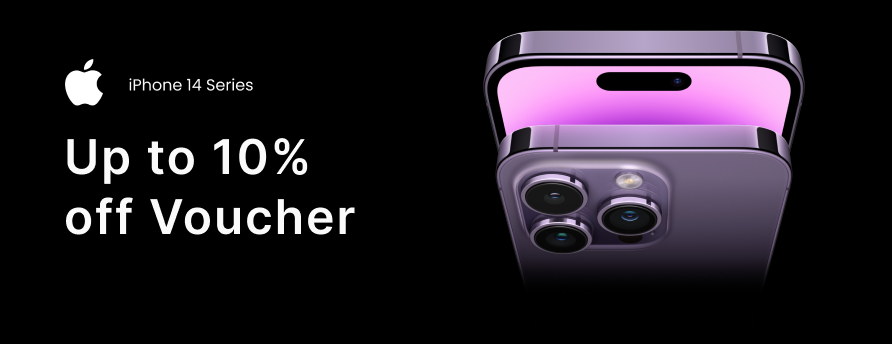
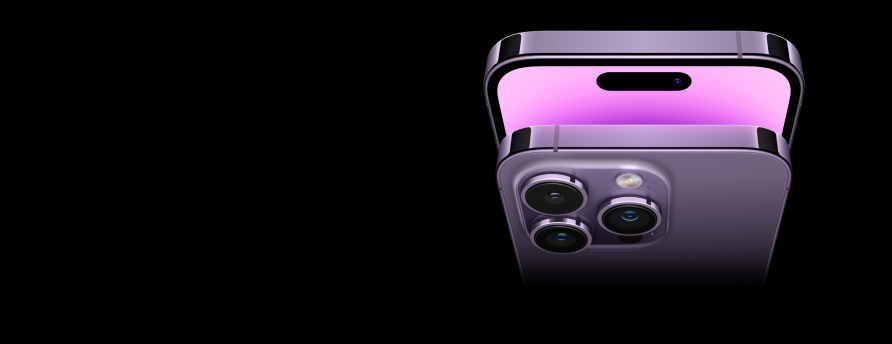
pracice

Changed region(s): [[0.0605, 0.5523, 0.3935, 0.6977], [0.0605, 0.407, 0.3632, 0.5233], [0.0605, 0.1744, 0.3027, 0.3198]]

diff --git a/index.html b/index.html
@@ -160,48 +160,54 @@
                     </ul>
                 </nav>
 
-                <div class="offers-carousel">
-                    <swiper-container class="bannerSwiper" pagination="true" pagination-clickable="true"
+                <div class="offers-carousel swiper">
+                    <div class="bannerSwiper swiper-wrapper" pagination="true" pagination-clickable="true"
                         autoplay-delay="2500" autoplay-disable-on-interaction="false" loop="true">
-                        <swiper-slide>
-                            <!-- <div class="slide-content">
-
-                                <p> <img src="./assests/apple-logo.svg" alt="">iPhone 14 Series</p>
-                                <h1>Up to 10% off Voucher</h1>
-                                <a href="#shopnow" class="promo-link">Shop Now <img src="./assests/arrow.png"
-                                        alt=""></a>
-
-                            </div> -->
+                        
+                        <div class="swiper-slide">
                             <img src="./assests/hero-image.png" alt="">
-                        </swiper-slide>
-
-
-                        <!-- <swiper-slide>
                             <div class="slide-content">
-
+                                
                                 <p> <img src="./assests/apple-logo.svg" alt="">iPhone 14 Series</p>
                                 <h1>Up to 10% off Voucher</h1>
                                 <a href="#shopnow" class="promo-link">Shop Now <img src="./assests/arrow.png"
                                         alt=""></a>
 
                             </div>
-                            <img src="./assests/hero-image.jpg" alt="">
-                        </swiper-slide>
+                            
+                        </div>
 
-                        <swiper-slide>
+                        <div class="swiper-slide">
+                            <img src="./assests/hero-image.png" alt="">
                             <div class="slide-content">
-
+                                
                                 <p> <img src="./assests/apple-logo.svg" alt="">iPhone 14 Series</p>
                                 <h1>Up to 10% off Voucher</h1>
                                 <a href="#shopnow" class="promo-link">Shop Now <img src="./assests/arrow.png"
                                         alt=""></a>
 
                             </div>
-                            <img src="./assests/hero-image.jpg" alt="">
-                        </swiper-slide> -->
+                            
+                        </div>
 
-                    </swiper-container>
+
+                        <div class="swiper-slide">
+                            <img src="./assests/hero-image.png" alt="">
+                            <div class="slide-content">
+                                
+                                <p> <img src="./assests/apple-logo.svg" alt="">iPhone 14 Series</p>
+                                <h1>Up to 10% off Voucher</h1>
+                                <a href="#shopnow" class="promo-link">Shop Now <img src="./assests/arrow.png"
+                                        alt=""></a>
+
+                            </div>
+                            
+                        </div>
+         
+                    </div>
+                    <div class="swiper-pagination"></div>
                 </div>
+
             </div>
         </div>
 

diff --git a/style.css b/style.css
@@ -452,12 +452,12 @@ a {
 }
 
 
-.offers-carousel swiper-slide {
+.offers-carousel .swiper-slide {
     width: 100% !important;
     height: auto;
 }
 
-swiper-slide {
+.offers-carousel .swiper-slide {
     text-align: center;
 
     display: flex;
@@ -470,23 +470,24 @@ swiper-slide {
 
 
 
-.offers-carousel swiper-slide img {
+.offers-carousel .swiper-slide img {
 
     width: 100%;
     height: auto;
 
 }
 
-.slide-content {
+.offers-carousel .slide-content {
     max-width: 294px;
     margin: 58px 64px 47px 38px;
     color: #FAFAFA;
     text-align: start;
+    position: absolute;
 }
 
 
 
-.slide-content a {
+.offers-carousel .slide-content a {
     display: flex;
     align-items: center;
     gap: 8px;
@@ -497,20 +498,20 @@ swiper-slide {
     text-decoration-thickness: 1px;
 }
 
-.slide-content p {
+.offers-carousel .slide-content p {
     display: flex;
     align-items: center;
     gap: 24px;
     padding-bottom: 22px;
 }
 
-.slide-content p img {
+.offers-carousel .slide-content p img {
     display: block;
     width: 40px;
     height: 49px;
 }
 
-.slide-content a img {
+.offers-carousel .slide-content a img {
     display: block;
 
     height: 24px;
@@ -1152,9 +1153,7 @@ footer a,
 }
 
 @media screen and (max-width:1200px) {
-    .container {
-        padding: 0 20px;
-    }
+   
 
 }
 
@@ -1172,6 +1171,13 @@ footer a,
 }
 
 @media screen and (max-width: 930px) {
+
+
+    .offers-carousel .slide-content h1{
+        font-size: 40px;
+        line-height: 50px;
+    }
+
     .main-header .main-navigation {
         display: none;
     }
@@ -1190,6 +1196,9 @@ footer a,
 @media screen and (max-width: 1200px) {
     
 
+    .container {
+        padding: 0 20px;
+    }
     .side-nav-carousel{
         display: block;
     }
@@ -1200,7 +1209,5 @@ footer a,
     .hero-content{
         flex-wrap: wrap;
     }
-    /* .offers-carousel{
-        margin-top: 0;
-    } */
+ 
 }

diff --git a/script.js b/script.js
@@ -116,7 +116,8 @@ var productsCarousel = new Swiper(".products-carousel", {
   },
   breakpoints: {
     1200: {
-      slidesPerView: 4, spaceBetween: 30, slidesPerGroup: 4, grid: { rows: 2 }},
+      slidesPerView: 4, spaceBetween: 30, slidesPerGroup: 4, grid: { rows: 2 }
+    },
     992: { slidesPerView: 3, spaceBetween: 25, slidesPerGroup: 3, grid: { rows: 2 } },
     620: { slidesPerView: 2, spaceBetween: 10, slidesPerGroup: 2, grid: { rows: 2 } },
     200: { slidesPerView: 1, spaceBetween: 10, slidesPerGroup: 1, grid: { rows: 2 } },
@@ -147,14 +148,25 @@ var sideNavCarousel = new Swiper(".nav-carousel", {
   freeMode: true,
   speed: 8000,
   allowTouchMove: true,
-  
+
   autoplay: {
     delay: 0,
     pauseOnMouseEnter: true,
   }
 })
 
+var offersCarousel = new Swiper(".offers-carousel", {
+  loop: true,
 
+  autoplay: {
+    delay: 2500,
+    disableOnInteraction: false,
+  },
+  pagination: {
+    el: ".swiper-pagination",
+    clickable: true,
+  },
+})
 
 
 
